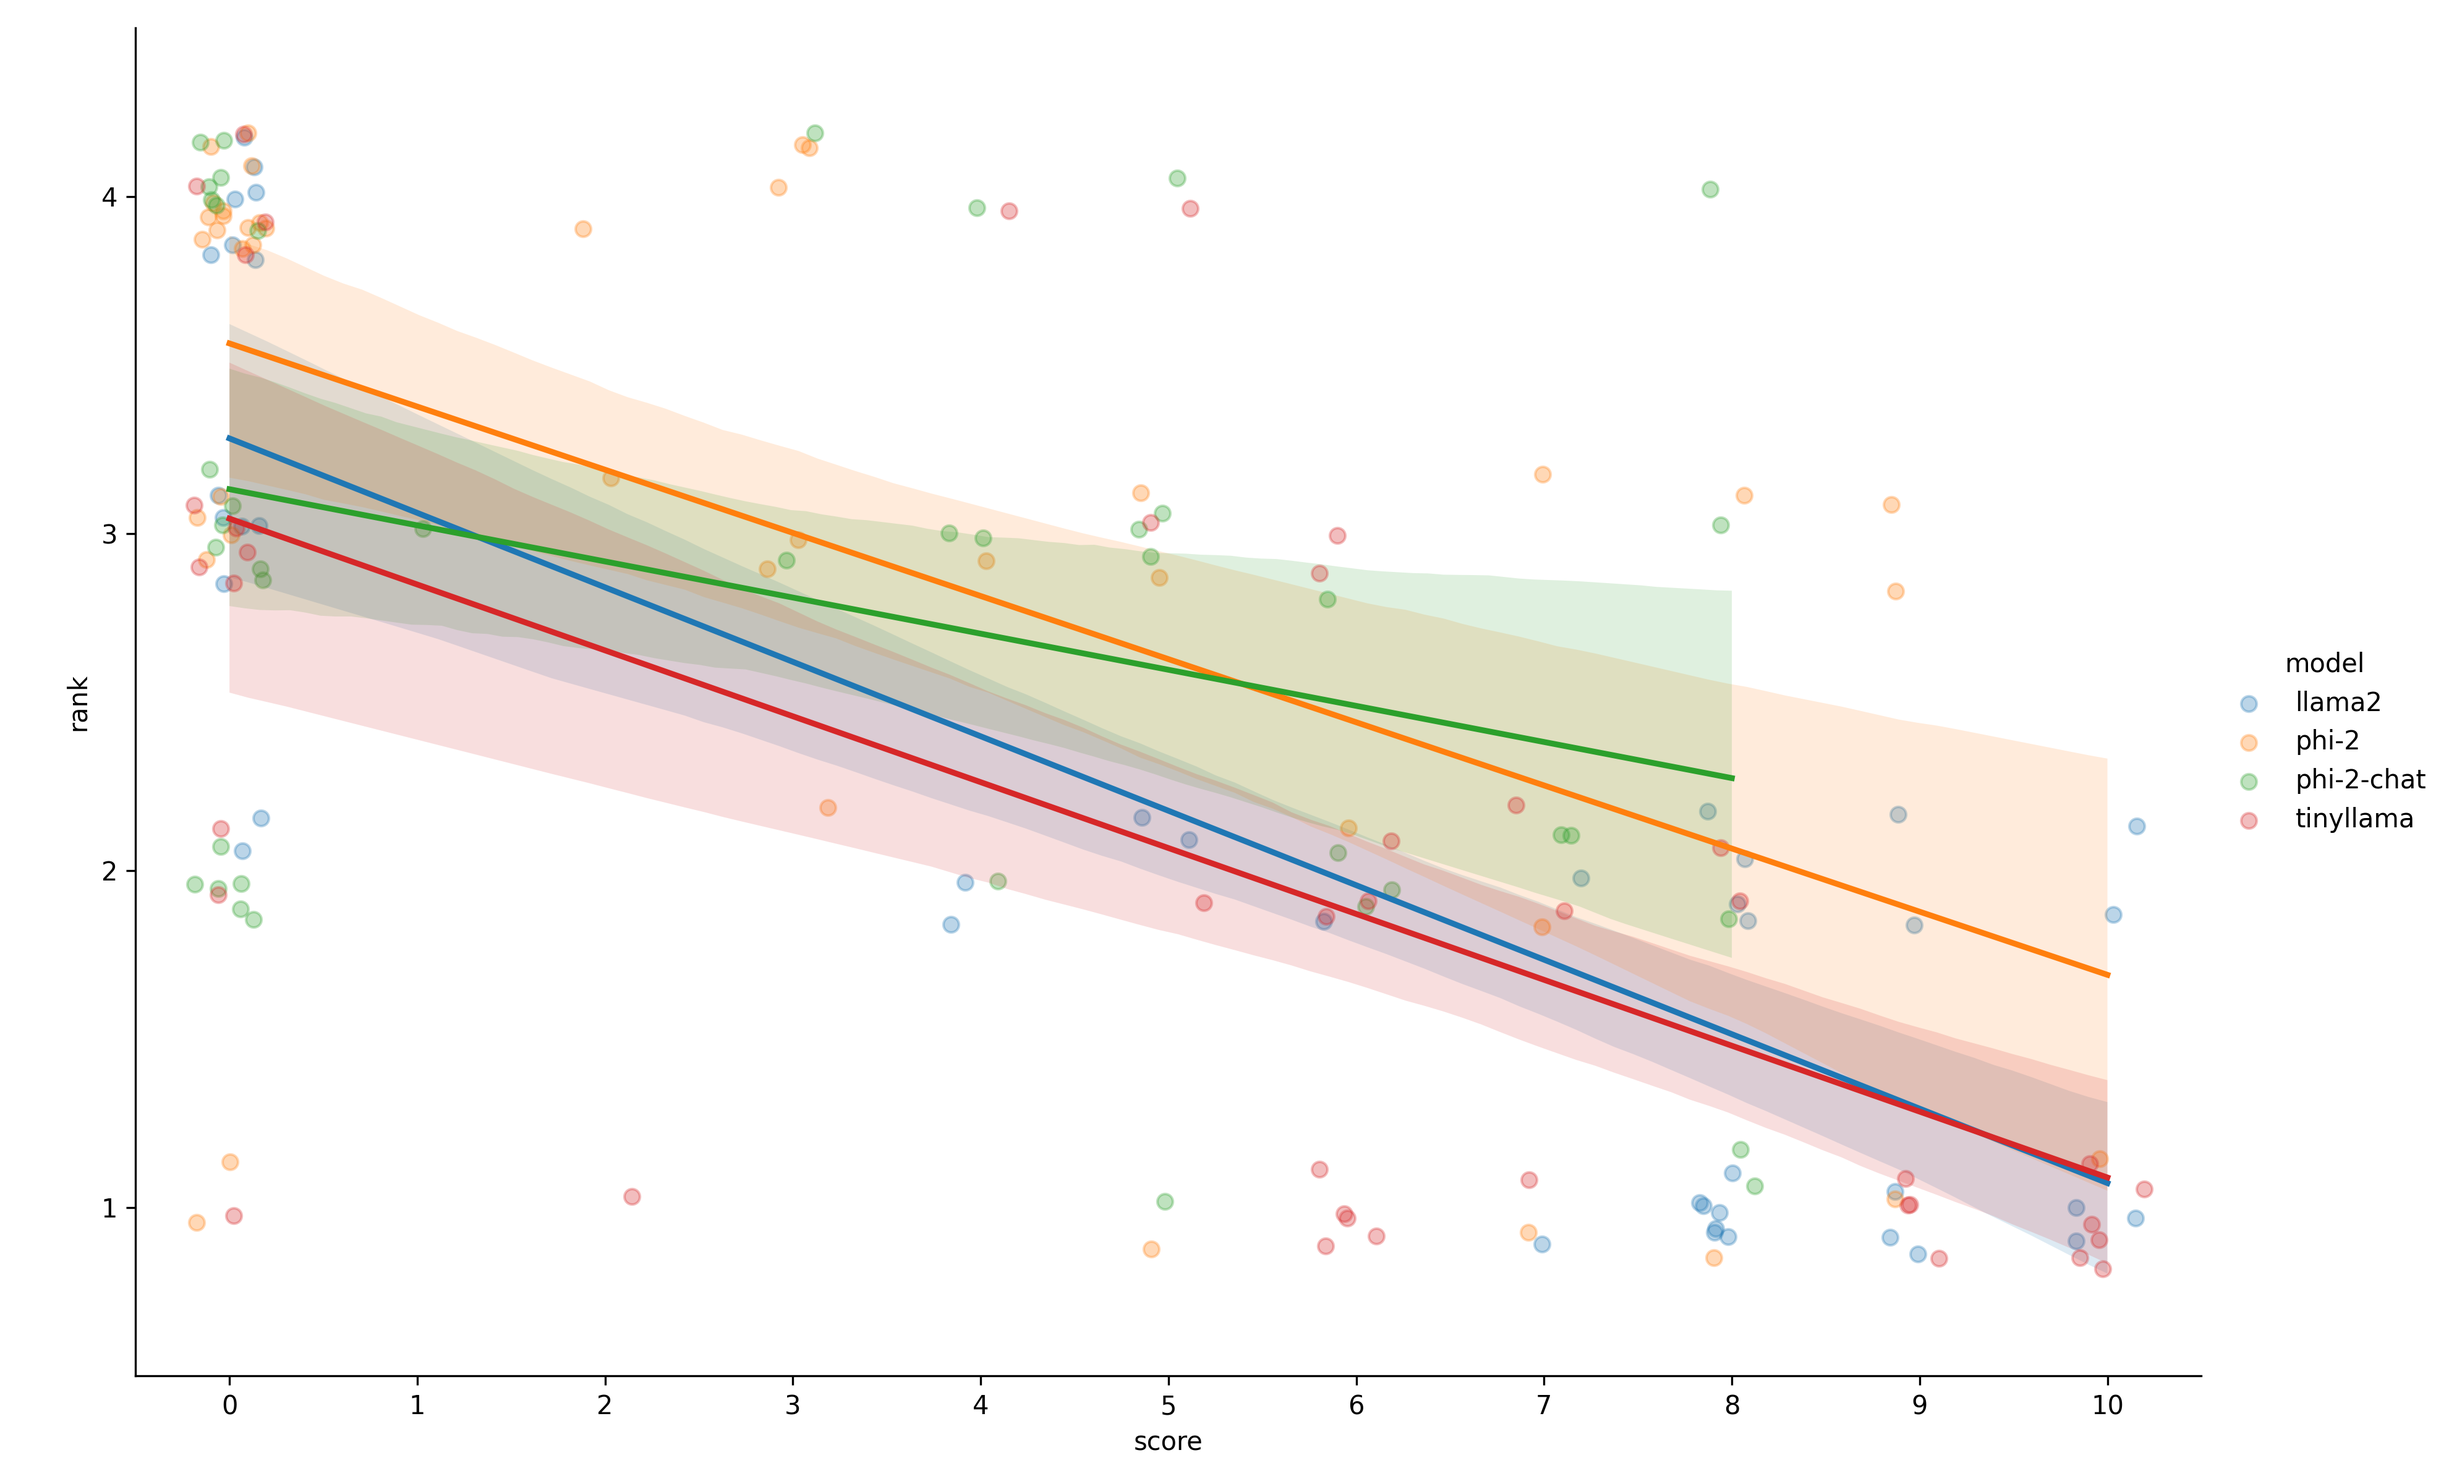
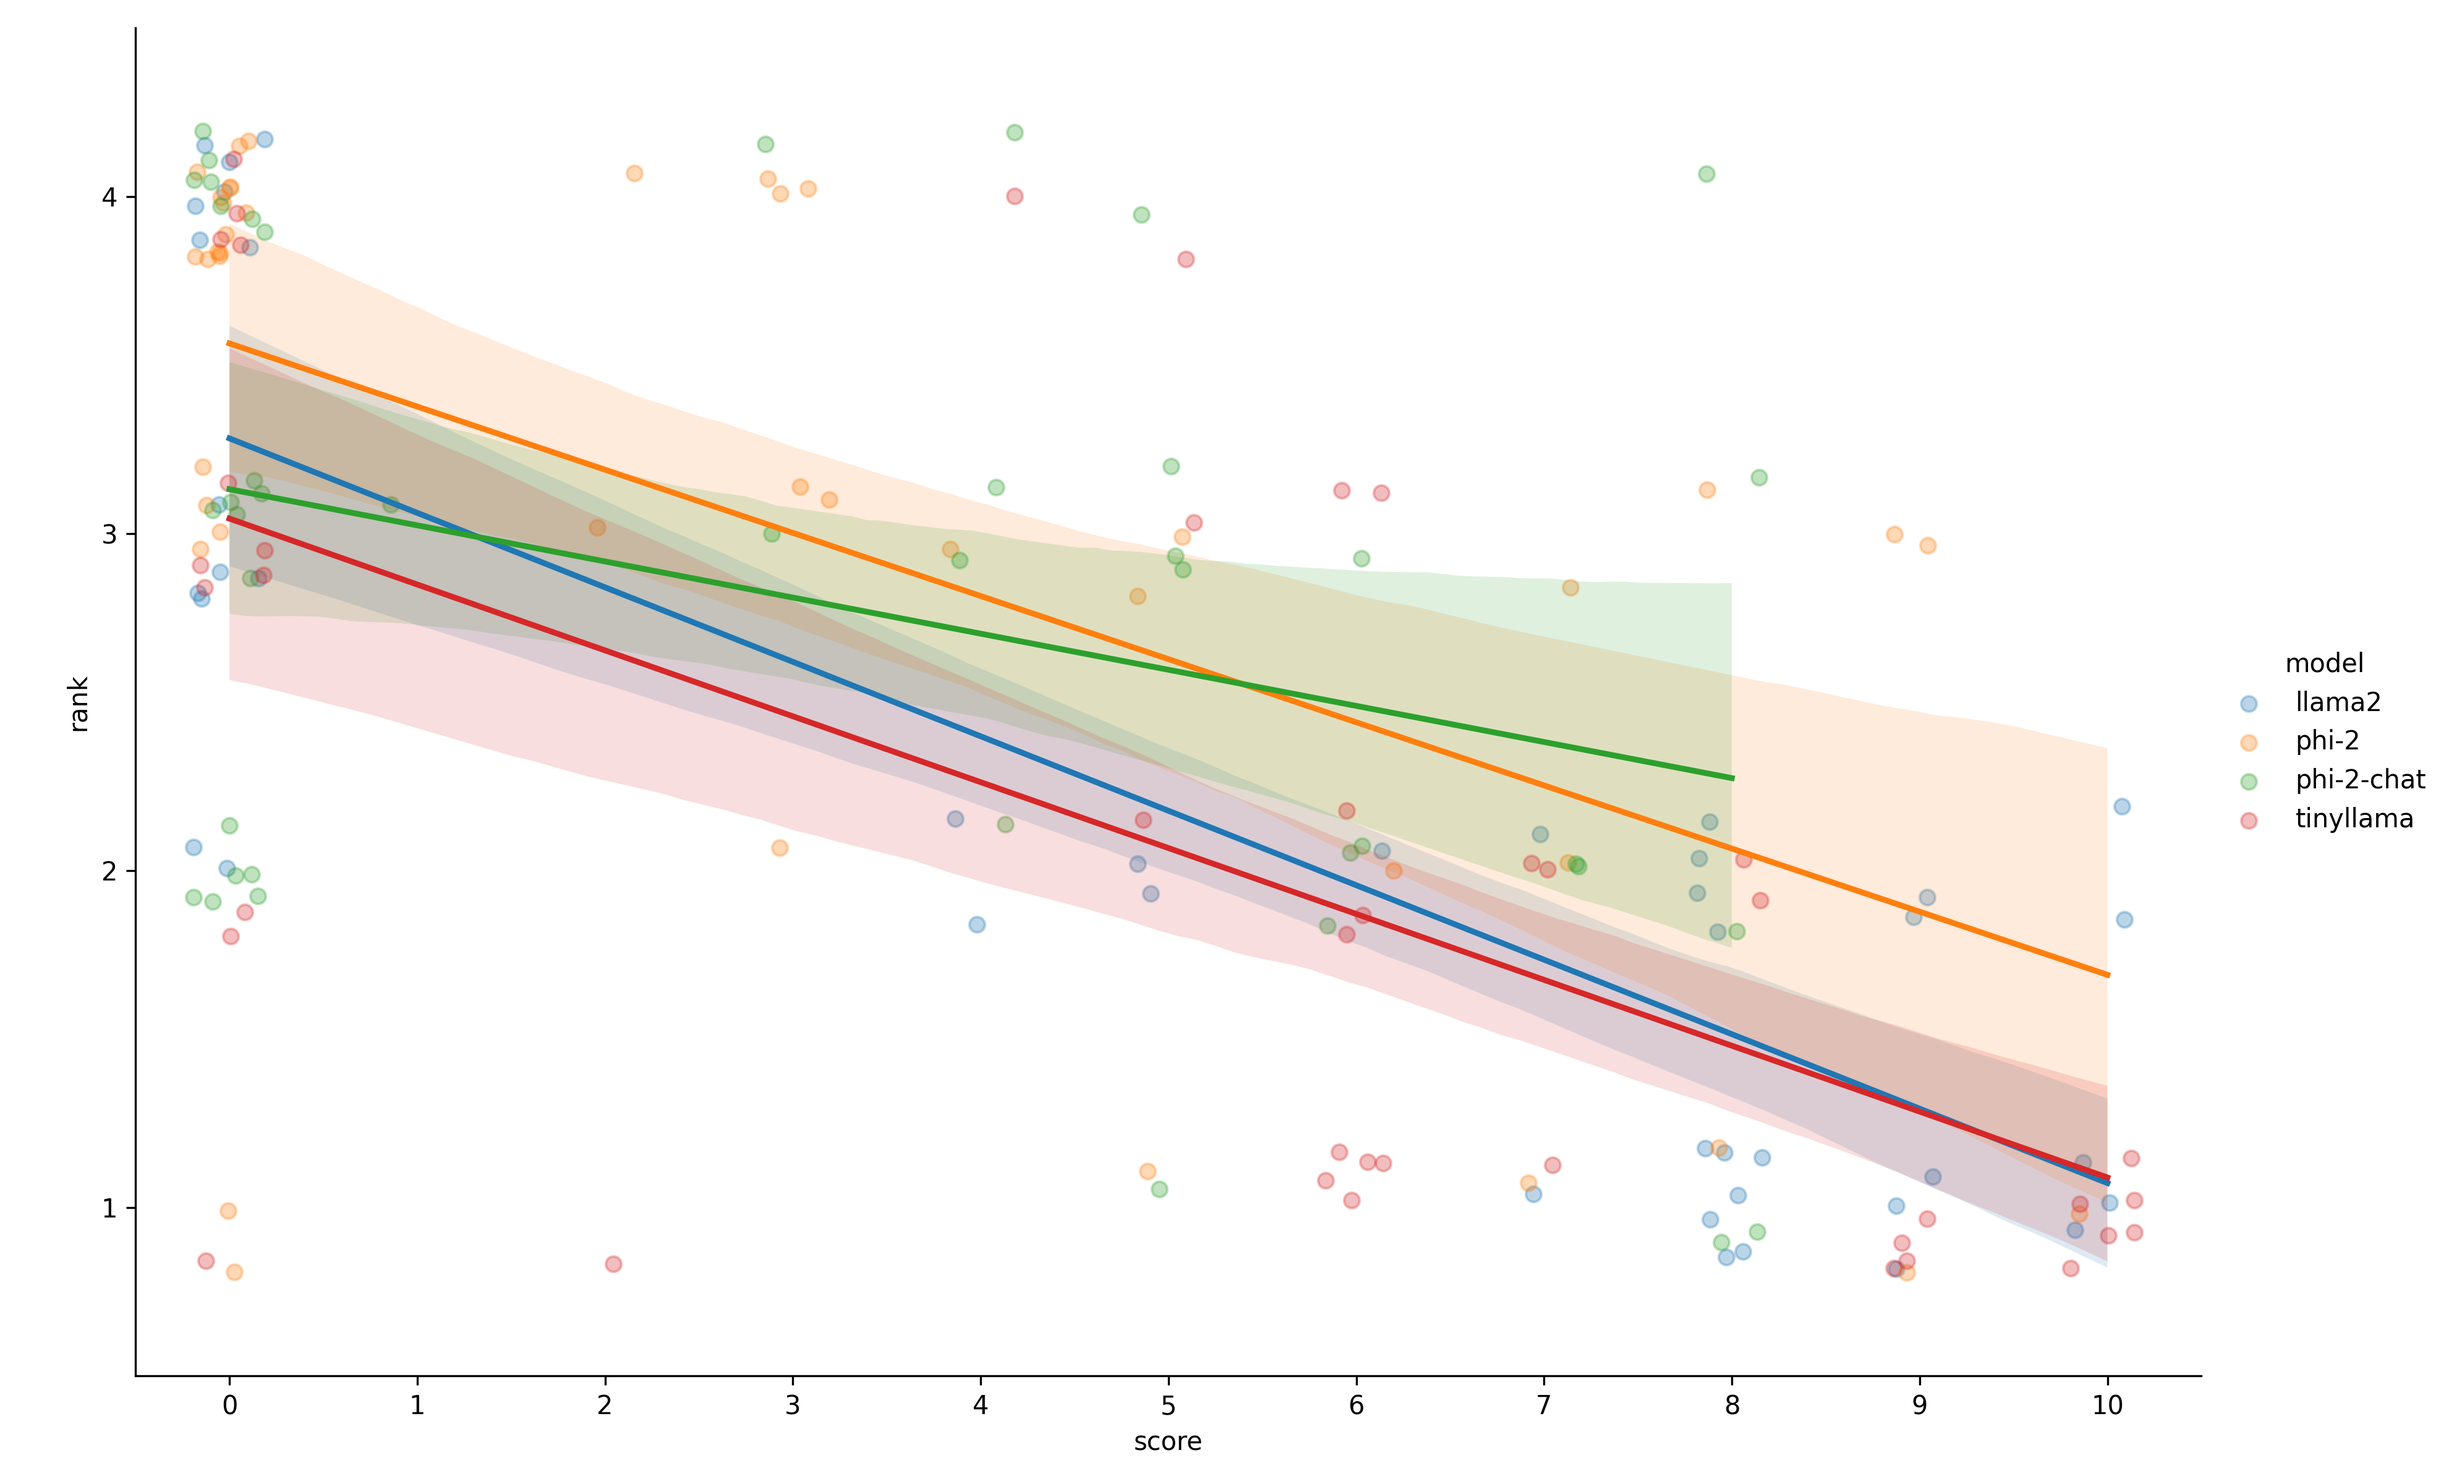
Whoops.

diff --git a/scripts/04_subj_rank_results.py b/scripts/04_subj_rank_results.py
@@ -97,7 +97,7 @@ if __name__ == "__main__":
     # plot the scores by model
     model_names.sort()
     sns.boxplot(
-        data=rankings_long.query("type == 'score'"),
+        data=rankings_long.query("type == 'score'").sort_values("model"),
         x="model",
         y="value",
         ax=ax,
@@ -108,7 +108,7 @@ if __name__ == "__main__":
     )
     # add scatter plot with jitter
     sns.stripplot(
-        data=rankings_long.query("type == 'score'"),
+        data=rankings_long.query("type == 'score'").sort_values("model"),
         x="model",
         y="value",
         legend=False,

diff --git a/scripts/02_stats.py b/scripts/02_stats.py
@@ -161,7 +161,7 @@ timings2["metric"] = timings2["metric"].str.replace("eval", "Output Generation")
 model_names = list(set(timings2["model"]))
 model_names.sort()
 g = sns.catplot(
-    data=timings2,
+    data=timings2.sort_values("model"),
     x="model",
     y="value",
     hue="model",
